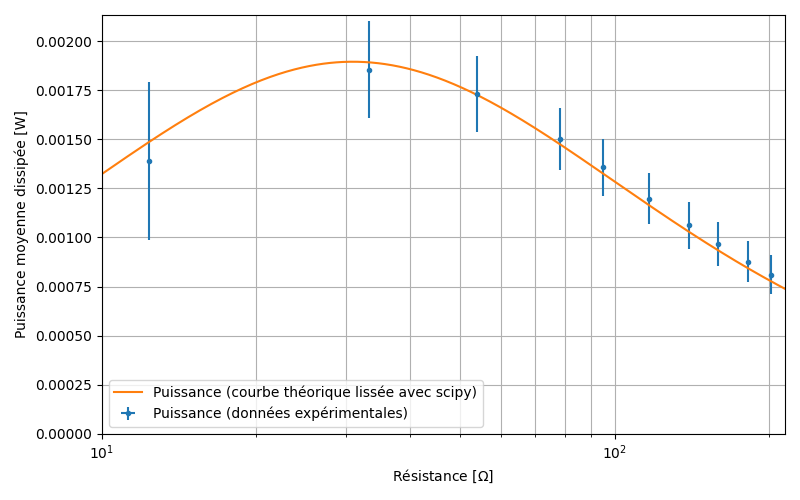
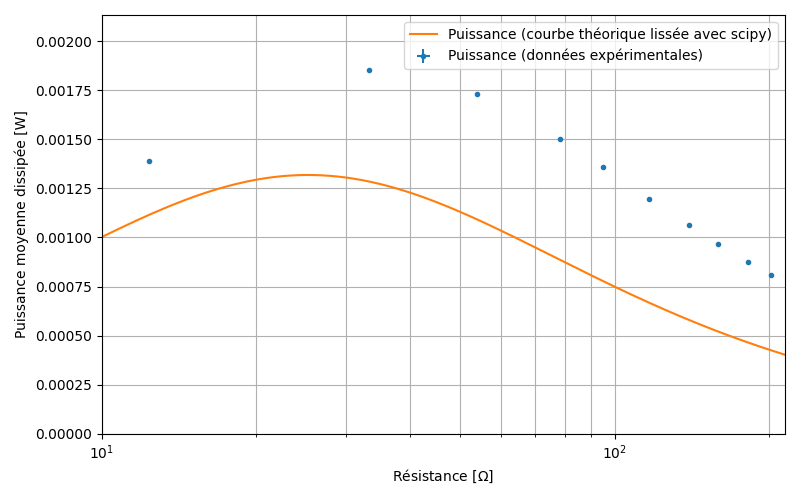
Fin Lab5

diff --git a/Labo5/Programmation/Partie 1.py b/Labo5/Programmation/Partie 1.py
@@ -46,7 +46,8 @@ def puissance_moyenne_dissipee(arr):
     except:
         inc_v = 0.001
     inc_r = resistance_inc(np.mean(r))
-    inc_p = np.mean(np.sqrt(p_moy_dis * (2 * (inc_v/v)**2 + (inc_r/r)**2))) # Devrait être l'incertitude
+    # inc_p = np.mean(np.sqrt(p_moy_dis**2 * (2 * (inc_v/v)**2 + (inc_r/r)**2))) # Devrait être l'incertitude
+    inc_p = np.mean((abs(2 * v * inc_v - v**2 * inc_r)) / r**2) # Devrait être l'incertitude
 
     return np.array([p_moy_dis, r]), [inc_p, inc_r]
 
@@ -95,19 +96,19 @@ def resistance_inc(values: np.ndarray):
     """
     incertitudes = np.zeros_like(values, dtype=float)
     inc100 = values <= 100
-    incertitudes[inc100] = 0.00003 * values[inc100] + 0.00003 * 0.001
+    incertitudes[inc100] = 0.00003 * values[inc100] + 0.00003 * 100
     inc1k = (values > 100) & (values <= 1000)
-    incertitudes[inc1k] = 0.00002 * values[inc1k] + 0.000005 * 0.001
+    incertitudes[inc1k] = 0.00002 * values[inc1k] + 0.000005 * 1000
     inc10k = (values > 1000) & (values <= 10000)
-    incertitudes[inc10k] = 0.00002 * values[inc10k] + 0.000005 * 0.0001
+    incertitudes[inc10k] = 0.00002 * values[inc10k] + 0.000005 * 10000
     inc100k = (values > 10000) & (values <= 100000)
-    incertitudes[inc100k] = 0.00002 * values[inc100k] + 0.000005 * 0.00001
+    incertitudes[inc100k] = 0.00002 * values[inc100k] + 0.000005 * 100000
     inc1M = (values > 100000) & (values <= 1000000)
-    incertitudes[inc1M] = 0.00002 * values[inc1M] + 0.00001 * 0.000005
+    incertitudes[inc1M] = 0.00002 * values[inc1M] + 0.00001 * 1000000
     inc10M = (values > 1000000) & (values <= 10000000)
-    incertitudes[inc10M] = 0.00015 * values[inc10M] + 0.00001 * 0.0000005
+    incertitudes[inc10M] = 0.00015 * values[inc10M] + 0.00001 * 10000000
     inc100M = (values > 10000000) & (values <= 100000000)
-    incertitudes[inc100M] = 0.003 * values[inc100M] + 0.0001 * 0.0000005
+    incertitudes[inc100M] = 0.003 * values[inc100M] + 0.0001 * 100000000
 
     return incertitudes
 
@@ -150,13 +151,12 @@ def fonction_theorique_c(r_ch, V=1, r_s=50):
     return puissance
 
 
-def fonction_theorique_f(r_ch, V=1, r_s=50):
+def fonction_theorique_f(r_ch, V=1, r_s=50, wC=0.02513):
     # Définition de constantes utiles
     w = 2000 * np.pi    # 2pi*f où f=1kHz
-    C = 4e-6            # La capacitance du condensateur
 
     numérateur = r_ch * V**2                                        # C lè
-    dénominateur = 2 * ((r_s + r_ch)**2 + (r_s * r_ch * w * C)**2)  # vréman lè
+    dénominateur = 2 * ((r_s + r_ch)**2 + (r_s * r_ch * wC)**2)  # vréman lè
 
     puissance = numérateur / dénominateur
 
@@ -165,13 +165,13 @@ def fonction_theorique_f(r_ch, V=1, r_s=50):
 def fit(circuit):
     data = donnees_graphique(circuit)
     if circuit == 'f':
-        param, param_cov = curve_fit(fonction_theorique_f, data[1], data[0], bounds=([0.96, -np.inf], [1.04, np.inf]))
+        param, param_cov = curve_fit(fonction_theorique_f, data[1], data[0],
+                                     bounds=([0.96, 45, 0.01508], [1.04, 55, 0.03519]))
 
         r = np.linspace(10, 215, 1000)
         w = 2000 * np.pi    # 2pi*f où f=1kHz
-        C = 4e-6            # La capacitance du condensateur
         num = r * param[0]**2
-        dénom = 2 * ((param[1] + r)**2 + (param[1] * r * w *C)**2)
+        dénom = 2 * ((param[1] + r)**2 + (param[1] * r * param[2])**2)
         puissance = num/dénom
 
     if circuit == 'c':
@@ -179,9 +179,12 @@ def fit(circuit):
 
         r = np.linspace(10, 215, 1000)
         puissance = (r * param[0]**2) / (2 * (r + param[1])**2)
-    
-    return puissance, param[0], param[1], param_cov
 
+    return puissance, param, param_cov
+
+# curve, _, _, _ = fit('c')
+# maxi = np.argmax(curve)
+# print(np.linspace(10, 215, 1000)[maxi])
 
 def tracer_graphique(circuit):
     """
@@ -200,12 +203,21 @@ def tracer_graphique(circuit):
 
     curve = fit(circuit)
     puissance = curve[0]
-    V, r_s = curve[1], curve[2]
-    errs = np.sqrt(np.diag(curve[3]))
-    inc_V, inc_r_s = errs[0], errs[1]
+    if circuit == "f":
+        V, r_s, C = curve[1][0], curve[1][1], curve[1][2]
+        errs = np.sqrt(np.diag(curve[2]))
+        inc_V, inc_r_s, inc_C = errs[0], errs[1], errs[2]
 
-    print(V, inc_V)
-    print(r_s, inc_r_s)
+        print(V, inc_V)
+        print(r_s, inc_r_s)
+        print(C, inc_C)
+    elif circuit == "c":
+        V, r_s = curve[1][0], curve[1][1]
+        errs = np.sqrt(np.diag(curve[2]))
+        inc_V, inc_r_s = errs[0], errs[1]
+
+        print(V, inc_V)
+        print(r_s, inc_r_s)
 
     plt.clf()
 
@@ -229,3 +241,4 @@ def tracer_graphique(circuit):
     plt.savefig(plot_dir+f"/Circuit_{circuit}.png")
 
 tracer_graphique("f")
+tracer_graphique("c")
